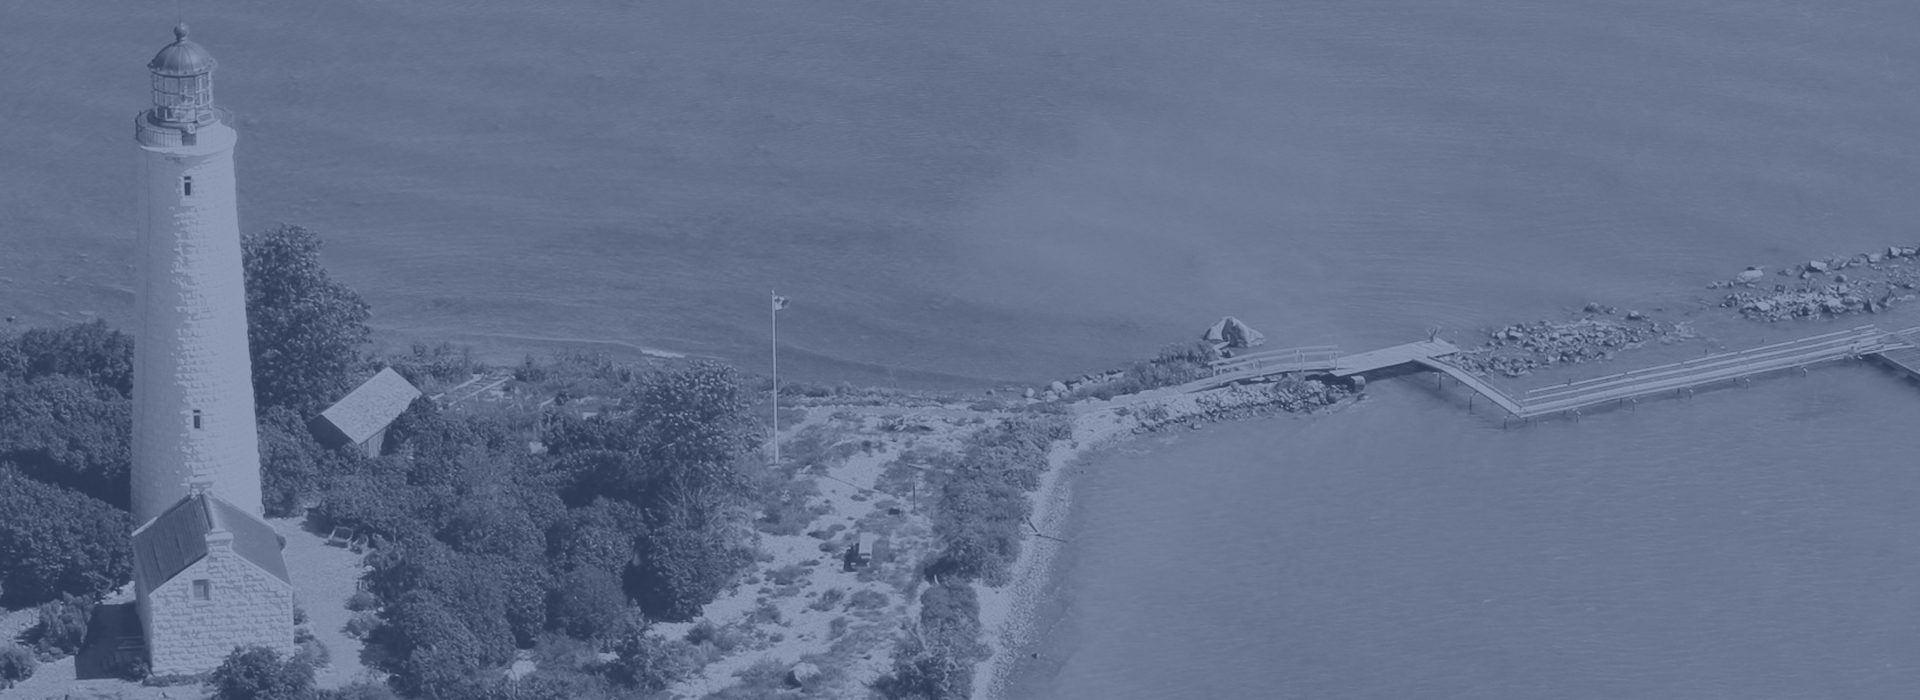
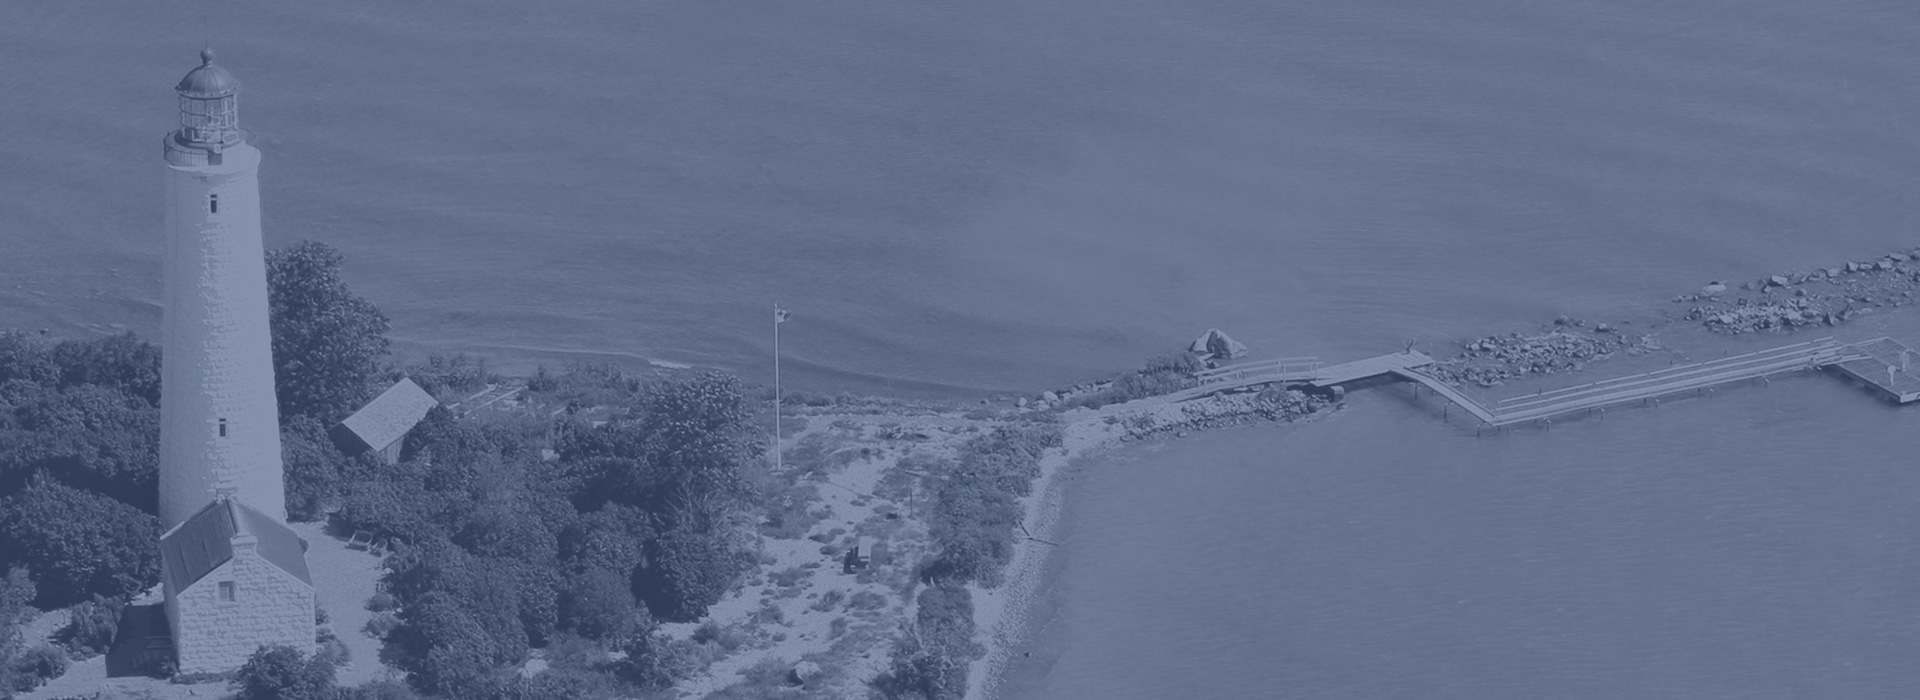
Index img rotator
Added images and got image rotator on index page working

Changed region(s): [[0.0, 0.06, 1.0, 1.0]]

diff --git a/js/index.js b/js/index.js
@@ -1,0 +1,37 @@
+(function() {
+	"use strict";
+
+var homeRotatorCon = document.querySelector("#homeRotatorCon");
+var homeRotatorTitle = document.querySelector("#homeRotatorText h2");
+var homeRotatorTxt = document.querySelector("#homeRotatorText p");
+var count = 1;
+
+var homeImgArray = ["home_rotator_1.jpg",
+				"home_rotator_2.jpg",
+				"home_rotator_3.jpg"];
+
+var homeTitleArray = ["Marine Heritage Society","Touring Chantry Island","Light Keeper's Cottage"];
+
+var homeTxtArray = ["The Marine Heritage Society is a not-for-profit group of volunteers dedicated to the preservation and enhancement of our community's marine history. The goal of the Society is to identify, preserve and restore material items of marine historical significance and to raise sufficient funds to support these endeavors.",
+	"As you take the 15 minute boat ride to the island you will enjoy the outstanding views of the sandy beach shoreline and the deep blue waters of Lake Huron. During your two hour guided visit on Chantry Island, you have the opportunity to climb to the top of the Imperial Lighthouse for extraordinary views of the island.",
+	"Stroll back in time while visiting the Light Keeper's Cottage as it existed in the late 1800’s, decorated with period furnishings from private donors and the Bruce County Museum and Cultural Centre. You will also see the surrounding gardens and many species of birds."];
+
+var homeDotsArray = document.querySelectorAll(".homeSelectors div");
+
+function dotAdd(e) {
+	var whichDot = e.currentTarget.id;
+	var dotNumber = whichDot.slice(3,4);
+	homeDotsArray[0].classList.remove("activeSelector");
+	homeDotsArray[1].classList.remove("activeSelector");
+	homeDotsArray[2].classList.remove("activeSelector");
+	homeDotsArray[dotNumber].classList.add("activeSelector");
+	homeRotatorCon.style.backgroundImage = "url(images/"+homeImgArray[dotNumber]+")";
+	homeRotatorTitle.innerHTML = homeTitleArray[dotNumber];
+	homeRotatorTxt.innerHTML = homeTxtArray[dotNumber];
+}
+
+for (var i=0; i<homeDotsArray.length; i++) {
+	homeDotsArray[i].addEventListener("click", dotAdd, false);
+}
+
+})();

diff --git a/css/app.css b/css/app.css
@@ -72,27 +72,15 @@
 
 #homeRotatorText
 {
-	background-color: rgba(0,0,0,0.3);
+	background-color: rgba(0,0,0,0.5);
 	padding: 12px;
 }
 
-.homeSelectorsSmall {
+.homeSelectors {
 	display: block;
 	margin: 10px auto -10px auto;
 	width: 60px;
 	height: 10px;
-}
-
-.homeSelectorsMedium {
-	position: absolute;
-	right: 20px;
-	top: 47%;
-	width: 10px;
-	height: 60px;
-}
-
-#homeTimer {
-	height: 2px;
 }
 
 #bookingCon {
@@ -279,11 +267,11 @@
 	cursor: pointer;
 }
 
-.selectorDot {
+.nonActiveSelector {
 	background-color: #b9b9b9;
 }
 
-#activeSelector {
+.activeSelector {
 	background-color: #981b1e;
 }
 
@@ -1620,6 +1608,15 @@ textarea:focus {
 
 	.iconCon h3, .iconCon p {
 		text-align: center;
+	}
+
+	.homeSelectors {
+		position: absolute;
+		right: 20px;
+		top: 47%;
+		width: 10px;
+		height: 60px;
+		margin: 0;
 	}
 	
 	/*-----News-----*/

diff --git a/js/app.js b/js/app.js
@@ -1,1 +1,7 @@
-$(document).foundation()
+$(document).foundation();
+(function() {
+	"use strict";
+
+
+
+})();

diff --git a/index.php b/index.php
@@ -11,12 +11,6 @@ include_once("layout/header.php");
 <!--start homeRotatorCon-->
 <div id="homeRotatorCon">
 
-	<div class="homeSelectorsMedium show-for-medium">
-		<div class="selectorDot" id="activeSelector"></div>
-		<div class="selectorDot"></div>
-		<div class="selectorDot"></div>
-	</div>
-
 	<div class="row">
 		<div class="small-12 medium-5 columns" id="homeRotatorText">
 			<h2 class="heading whiteTxt">Marine Heritage Society</h2>
@@ -24,18 +18,14 @@ include_once("layout/header.php");
 		</div>
 	</div>
 
-	<div class="homeSelectorsSmall hide-for-medium">
-		<div class="selectorDot" id="activeSelector"></div>
-		<div class="selectorDot"></div>
-		<div class="selectorDot"></div>
+	<div class="homeSelectors">
+		<div class="selectorDot nonActiveSelector activeSelector" id="dot0"></div>
+		<div class="selectorDot nonActiveSelector" id="dot1"></div>
+		<div class="selectorDot nonActiveSelector" id="dot2"></div>
 	</div>
 
 </div>
 <!--end homeRotatorCon-->
-
-<!--start timer-->
-<div id="homeTimer"></div>
-<!--end timer-->
 
 <!--start bookingBar-->
 <div id="bookingBarFull">
@@ -141,11 +131,11 @@ include_once("layout/header.php");
 				<img src="images/chevron.svg" alt="Left" id="leftArrow">
 				<img src="images/chevron.svg" alt="Right" id="rightArrow">
 			<div class="selectors">
-				<div class="selectorDot"></div>
-				<div class="selectorDot" id="activeSelector"></div>
-				<div class="selectorDot"></div>
-				<div class="selectorDot"></div>
-				<div class="selectorDot"></div>
+				<div class="selectorDot nonActiveSelector"></div>
+				<div class="selectorDot activeSelector"></div>
+				<div class="selectorDot nonActiveSelector"></div>
+				<div class="selectorDot nonActiveSelector"></div>
+				<div class="selectorDot nonActiveSelector"></div>
 			</div>
 		</div>
 	</div>
@@ -155,7 +145,7 @@ include_once("layout/header.php");
     
     <!--CLOSE BODY CONTENT HERE-->
     
-    
+<script src="js/index.js"></script>
     
 <?php
 	include("layout/footer.php");

diff --git a/layout/footer.php b/layout/footer.php
@@ -95,5 +95,6 @@
     <script src="js/vendor/what-input.js"></script>
     <script src="js/vendor/foundation.js"></script>
     <script src="js/app.js"></script>
+    <script><?=$strScriptTitle?></script>
 	  </body>
 	</html>
